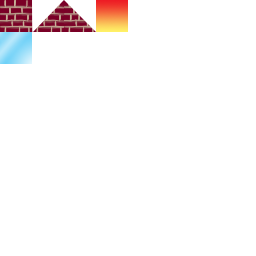
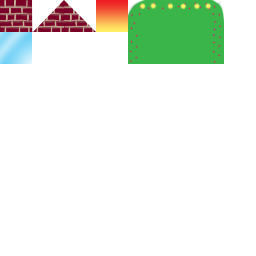
platformer: add 'platform' tile shape

Changed region(s): [[0.5, 0.0, 0.875, 0.25]]

diff --git a/res/platformer/dev.tsx b/res/platformer/dev.tsx
@@ -26,6 +26,24 @@
    <property name="shape" value="block"/>
   </properties>
  </tile>
+ <tile id="4">
+  <properties>
+   <property name="material" value="grass"/>
+   <property name="shape" value="platform"/>
+  </properties>
+ </tile>
+ <tile id="5">
+  <properties>
+   <property name="material" value="grass"/>
+   <property name="shape" value="platform"/>
+  </properties>
+ </tile>
+ <tile id="6">
+  <properties>
+   <property name="material" value="grass"/>
+   <property name="shape" value="platform"/>
+  </properties>
+ </tile>
  <tile id="8">
   <properties>
    <property name="material" value="ice"/>
